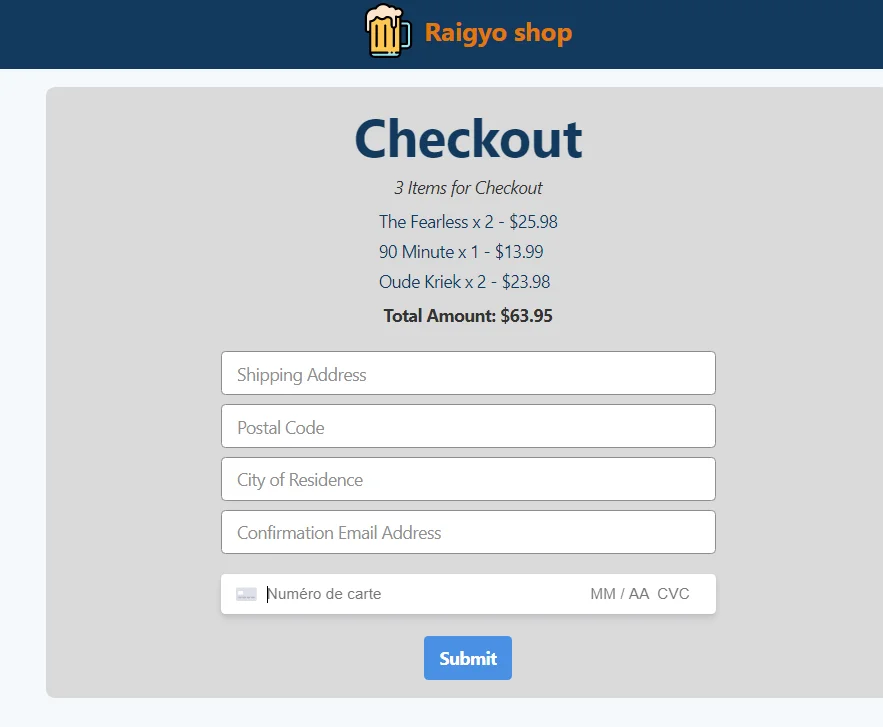
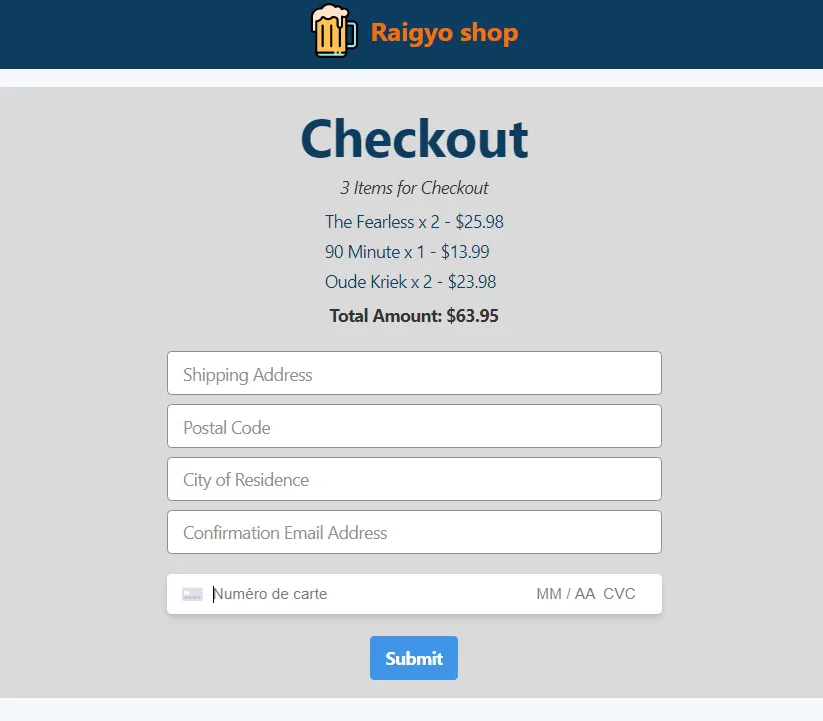
layout correction and update

Changed region(s): [[0.0, 0.1221, 1.0, 0.9764], [0.3645, 0.0, 0.6683, 0.0915]]

diff --git a/src/projects/svelte/svelte-miniblog.html b/src/projects/svelte/svelte-miniblog.html
@@ -26,12 +26,12 @@
     <meta charset="UTF-8">
     <meta name="language" content="english">
     <meta name="viewport" content="width=device-width, initial-scale=1.0">
-    <title>My portfolio - Svelte Pokédex | Vincent Chilot</title>
-    <meta name="description" content="My portfolio - Svelte Pokédex">
+    <title>My portfolio - Svelte Mini-blog | Vincent Chilot</title>
+    <meta name="description" content="My portfolio - Svelte Mini-blog">
     <meta name="author" content="Vincent Chilot">
     <meta
       name="keywords"
-      content="raigyo-dev.be, raigyo-dev, raigyo, vincent chilot, frontend, developer, développeur, portfolio, svelte, pokedex"
+      content="raigyo-dev.be, raigyo-dev, raigyo, vincent chilot, frontend, developer, développeur, portfolio, svelte, mini-blog"
     >
     <meta name=”robots” content=”index,follow”>
     <link href="https://fonts.googleapis.com/css2?family=Roboto&display=swap" rel="stylesheet">
@@ -58,7 +58,7 @@
     <div class="full-width">
           <!-- HEADER -->
           <header>
-            <h1>Svelte: <em>Pokédex</em></h1>
+            <h1>Svelte: <em>Mini-blog</em></h1>
           </header>
           <!-- /HEADER -->
 
@@ -66,7 +66,7 @@
           <nav>
             <ul>
               <li><a href="../../../index.html#projects-svelte" title="Homepage">Home</a></li>
-              <li>Svelte | Pokédex</li>
+              <li>Svelte | Mini-blog</li>
             </ul>
           </nav>
           <!-- /NAVIGATION -->
@@ -78,7 +78,13 @@
         <h2>Summary</h2>
         <section id="summary">
           <p>
-            Pokédex using Pokémon API made with Svelte in a Sapper environment...
+            Mini-blog made with Svelte in a Sapper environment for the front end part.
+          </p>
+          <p>
+            The back end part is managed by Strapi Headless CMS.
+          </p>
+          <p>
+            Both local and remote data ara managed by Apollo client and GraphQL.
           </p>
         </section>
         <!-- / SECTION SUMMARY -->
@@ -90,7 +96,7 @@
           <section class="picture-project">
             <div class="capture">
               <img
-                src="../../img/svelte/svelte-pokedex-01.webp"
+                src="../../img/svelte/svelte-miniblog-01.webp"
                 alt="Screen capture of the website"
               />
             </div>
@@ -98,7 +104,15 @@
           <section class="picture-project">
             <div class="capture">
               <img
-                src="../../img/svelte/svelte-pokedex-02.webp"
+                src="../../img/svelte/svelte-miniblog-02.webp"
+                alt="Screen capture of the website"
+              />
+            </div>
+          </section>
+          <section class="picture-project">
+            <div class="capture">
+              <img
+                src="../../img/svelte/svelte-miniblog-03.webp"
                 alt="Screen capture of the website"
               />
             </div>
@@ -114,7 +128,7 @@
           <div id="contact-section">
             <div class="logo-contact">
               <a
-                href="https://github.com/Raigyo/svelte-sapper-pokedex"
+                href="https://github.com/Raigyo/sapper-strapi-blog-static"
                 target="_blank"
                 rel="noreferrer"
                 onclick="gtag('event', 'clic', {'event_category': 'to projet github', 'event_label': 'open-project-github'});"
@@ -123,11 +137,24 @@
                 title="External link to the project github repository" />
               </a>
               <p>Github repository:</p>
-              <p>svelte-sapper-pokedex</p>
+              <p>sapper-strapi-blog-static</p>
             </div>
             <div class="logo-contact">
               <a
-                href="https://raigyo-svelte-pokedex.herokuapp.com/"
+                href="https://github.com/Raigyo/sapper-strapi-blog-backend"
+                target="_blank"
+                rel="noreferrer"
+                onclick="gtag('event', 'clic', {'event_category': 'to projet github', 'event_label': 'open-project-github'});"
+              >
+                <img src="../../img/icons/icon-github.png" alt="Logo Github"
+                title="External link to the project github repository" />
+              </a>
+              <p>Github repository:</p>
+              <p>sapper-strapi-blog-backend</p>
+            </div>
+            <div class="logo-contact">
+              <a
+                href="https://friendly-beaver-b2c0b1.netlify.app/"
                 target="_blank"
                 rel="noreferrer"
                 onclick="gtag('event', 'clic', {'event_category': 'to projet online', 'event_label': 'open-project-online'});"
@@ -135,11 +162,18 @@
                 <img src="../../img/icons/icone-online.png" alt="Logo Github"
                 title="External link to the online version" />
               </a>
-              <p>Online version:</p>
-              <p>Pokédex</p>
+              <p>Online version (*):</p>
+              <p>Mini-blog</p>
+            </div>
+            <div class="note">
+              <p>
+                (*) Back end part is hosted on <em>Heroku</em>, so it could take a while before the dyno wakes up.
+              </p>
+              <p>
+                Do not hesitate to refresh after a few seconds.
+              </p>
             </div>
           </div>
-
           <!-- / FlexBox Container -->
         </section>
         <!-- / SECTION LINKS -->

diff --git a/src/css/style.scss b/src/css/style.scss
@@ -14,10 +14,38 @@ $elementsBackgroundColor: #1D1D1D;
   box-shadow: 0 14px 28px rgba(0,0,0,0.25), 0 10px 10px rgba(0,0,0,0.22);
 }
 
+/* animation */
+
+@keyframes bouncing {
+  15% {
+      -webkit-transform: translateY(5px);
+      transform: translateY(5px);
+  }
+  30% {
+      -webkit-transform: translateY(-5px);
+      transform: translateY(-5px);
+  }
+  50% {
+      -webkit-transform: translateY(3px);
+      transform: translateY(3px);
+  }
+  65% {
+      -webkit-transform: translateY(-3px);
+      transform: translateY(-3px);
+  }
+  80% {
+      -webkit-transform: translateY(2px);
+      transform: translateY(2px);
+  }
+  100% {
+      -webkit-transform: translateY(0);
+      transform: translateY(0);
+  }
+}
+
 /* SECTIONS */
 
 section, article, header, footer {
-  font-size: 18px;
   text-align: center;
 }
 
@@ -213,6 +241,7 @@ p {
 #projects-section{
   @extend %shadow-boxes;
   background: rgba(60, 72, 88, 0.14);
+  margin-bottom: 25px;
 }
 
 #contact-section {
@@ -233,6 +262,11 @@ p {
   img {
     width: 25px;
     height: 25px;
+
+    &:hover {
+      animation: bouncing 1s ease;
+      animation-iteration-count: infinite;
+    }
   }
 
   a {
@@ -251,6 +285,11 @@ p {
   img {
     width: 40px;
     height: 40px;
+    transition: 0.5s all ease-in-out;
+
+    &:hover {
+      transform: scale(1.1);
+    }
   }
 
   a {
@@ -276,7 +315,7 @@ p {
   margin-bottom: 25px;
 
   a {
-    color: white;
+    color: aliceblue;
   }
 
   img {
@@ -323,10 +362,10 @@ p {
   img {
     width: 30%;
     transition: 0.5s all ease-in-out;
-  }
 
-  img:hover {
-    transform: scale(1.2);
+    &:hover {
+      transform: scale(1.2);
+    }
   }
 }
 
@@ -363,6 +402,7 @@ p {
   .project .picture { width: 100%; height: auto;}
   #contact-section { width: 100%; flex-wrap: wrap; margin: 15px auto;}
   #contact-section img { width: 50%; min-width: auto; height: auto;}
-  #contact-section .logo-contact { width: 50%; height: auto;}
+  #contact-section .logo-contact { height: auto; }
+  #contact-section .logo-contact p { white-space: nowrap; }
   header h2 { width: 90%; }
 }

diff --git a/index.html b/index.html
@@ -528,6 +528,21 @@
                 <h4>Svelte</h4>
                 <!-- RELATED PROJECT -->
                 <div class="project">
+                  <a href="./src/projects/svelte/svelte-miniblog.html">
+                    <div class="picture">
+                      <img
+                        src="./src/img/hp-cards/svelte-miniblog.jpg"
+                        alt="Picture of the project"
+                        title="Link to project page"
+                      />
+                    </div>
+                    <span>Mini-blog</span>
+                    <span class="date-project">December 2020</span>
+                  </a>
+                </div>
+                <!-- /RELATED PROJECT -->
+                <!-- RELATED PROJECT -->
+                <div class="project">
                   <a href="./src/projects/svelte/svelte-expenses.html">
                     <div class="picture">
                       <img
@@ -536,7 +551,7 @@
                         title="Link to project page"
                       />
                     </div>
-                    <span>Expenses calculation application</span>
+                    <span>Expenses calculation</span>
                     <span class="date-project">December 2020</span>
                   </a>
                 </div>
@@ -831,7 +846,7 @@
                         title="Link to project page"
                       />
                     </div>
-                    <span>PHP Slim Framework: Innovation blog</span>
+                    <span>PHP: Innovation blog</span>
                     <span class="date-project">March 2019</span>
                   </a>
                 </div>

diff --git a/src/css/style-project.scss b/src/css/style-project.scss
@@ -246,10 +246,14 @@ p {
   @extend %shadow-boxes;
   background: rgba(60, 72, 88, 0.14);
   display: flex;
+  flex-wrap: wrap;
   padding: 30px;
   margin-bottom: 50px;
   align-items: center;
   justify-content: center;
+  .note{
+    flex-basis: 100%;
+  }
 }
 
 #top-link {
@@ -260,6 +264,11 @@ p {
   img {
     width: 40px;
     height: 40px;
+    transition: 0.5s all ease-in-out;
+  }
+
+  img:hover {
+    transform: scale(1.1);
   }
 
   a {
@@ -292,12 +301,13 @@ p {
 /* MEDIA QUERIES */
 
 @media all and (max-width: 1000px){
-  article { width: 100%; margin: 15px auto;}
-  .article img { width: 100%; min-width: auto; height: auto;}
-  .project .capture { width: 100%; height: auto;}
-  #contact-section { width: 100%; flex-wrap: wrap; margin: 15px auto;}
-  #contact-section img { width: 50%; min-width: auto; height: auto;}
-  #contact-section .logo-contact { width: 50%; height: auto;}
+  article { width: 100%; margin: 15px auto; }
+  .article img { width: 100%; min-width: auto; height: auto; }
+  .project .capture { width: 100%; height: auto; }
+  #contact-section { width: 100%; flex-wrap: wrap; margin: 15px auto; }
+  #contact-section img { width: 50%; min-width: auto; height: auto; }
+  #contact-section .logo-contact { height: auto; }
+  #contact-section .logo-contact p { white-space: nowrap; }
   header h1 { width: 90%; }
 }
 

diff --git a/src/projects/react/react-strapi-store.html b/src/projects/react/react-strapi-store.html
@@ -78,7 +78,13 @@
         <h2>Summary</h2>
         <section id="summary">
           <p>
-            Online Store with React, Strapi headless CMS with GraphQL & Stripe.
+            Online Store with React as front end and Stripe for payments.
+          </p>
+          <p>
+            The back end part is managed by Strapi headless CMS with MongoDB Atlas as database.
+          </p>
+          <p>
+            Relationship between front and back is taken over GraphQL.
           </p>
         </section>
         <!-- / SECTION SUMMARY -->
@@ -156,8 +162,16 @@
                 <img src="../../img/icons/icone-online.png" alt="Logo Github"
                 title="External link to the online version" />
               </a>
-              <p>Online version:</p>
+              <p>Online version (*):</p>
               <p>Beers online store</p>
+            </div>
+            <div class="note">
+              <p>
+                (*) Back end part is hosted on <em>Heroku</em>, so it could take a while before the dyno wakes up.
+              </p>
+              <p>
+                Do not hesitate to refresh after a few seconds.
+              </p>
             </div>
           </div>
 
